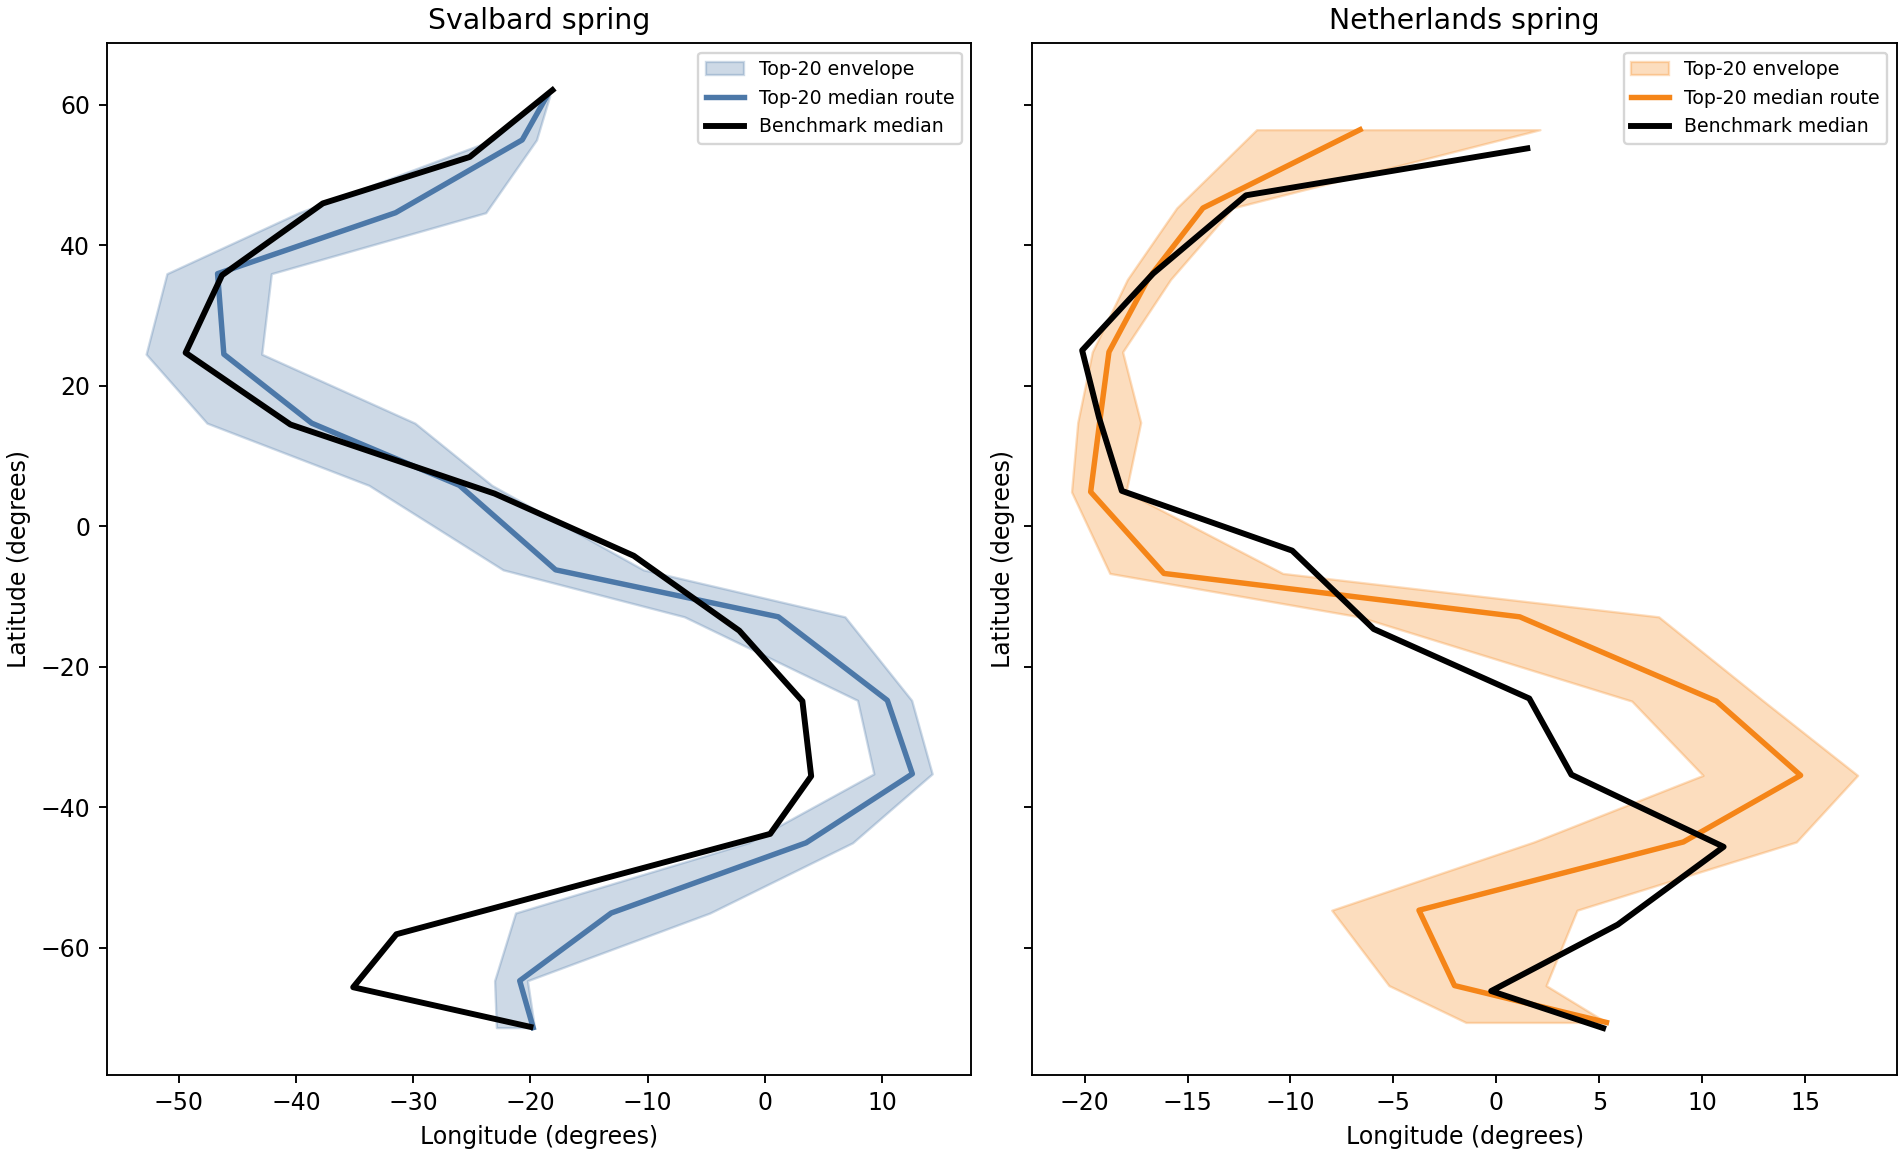
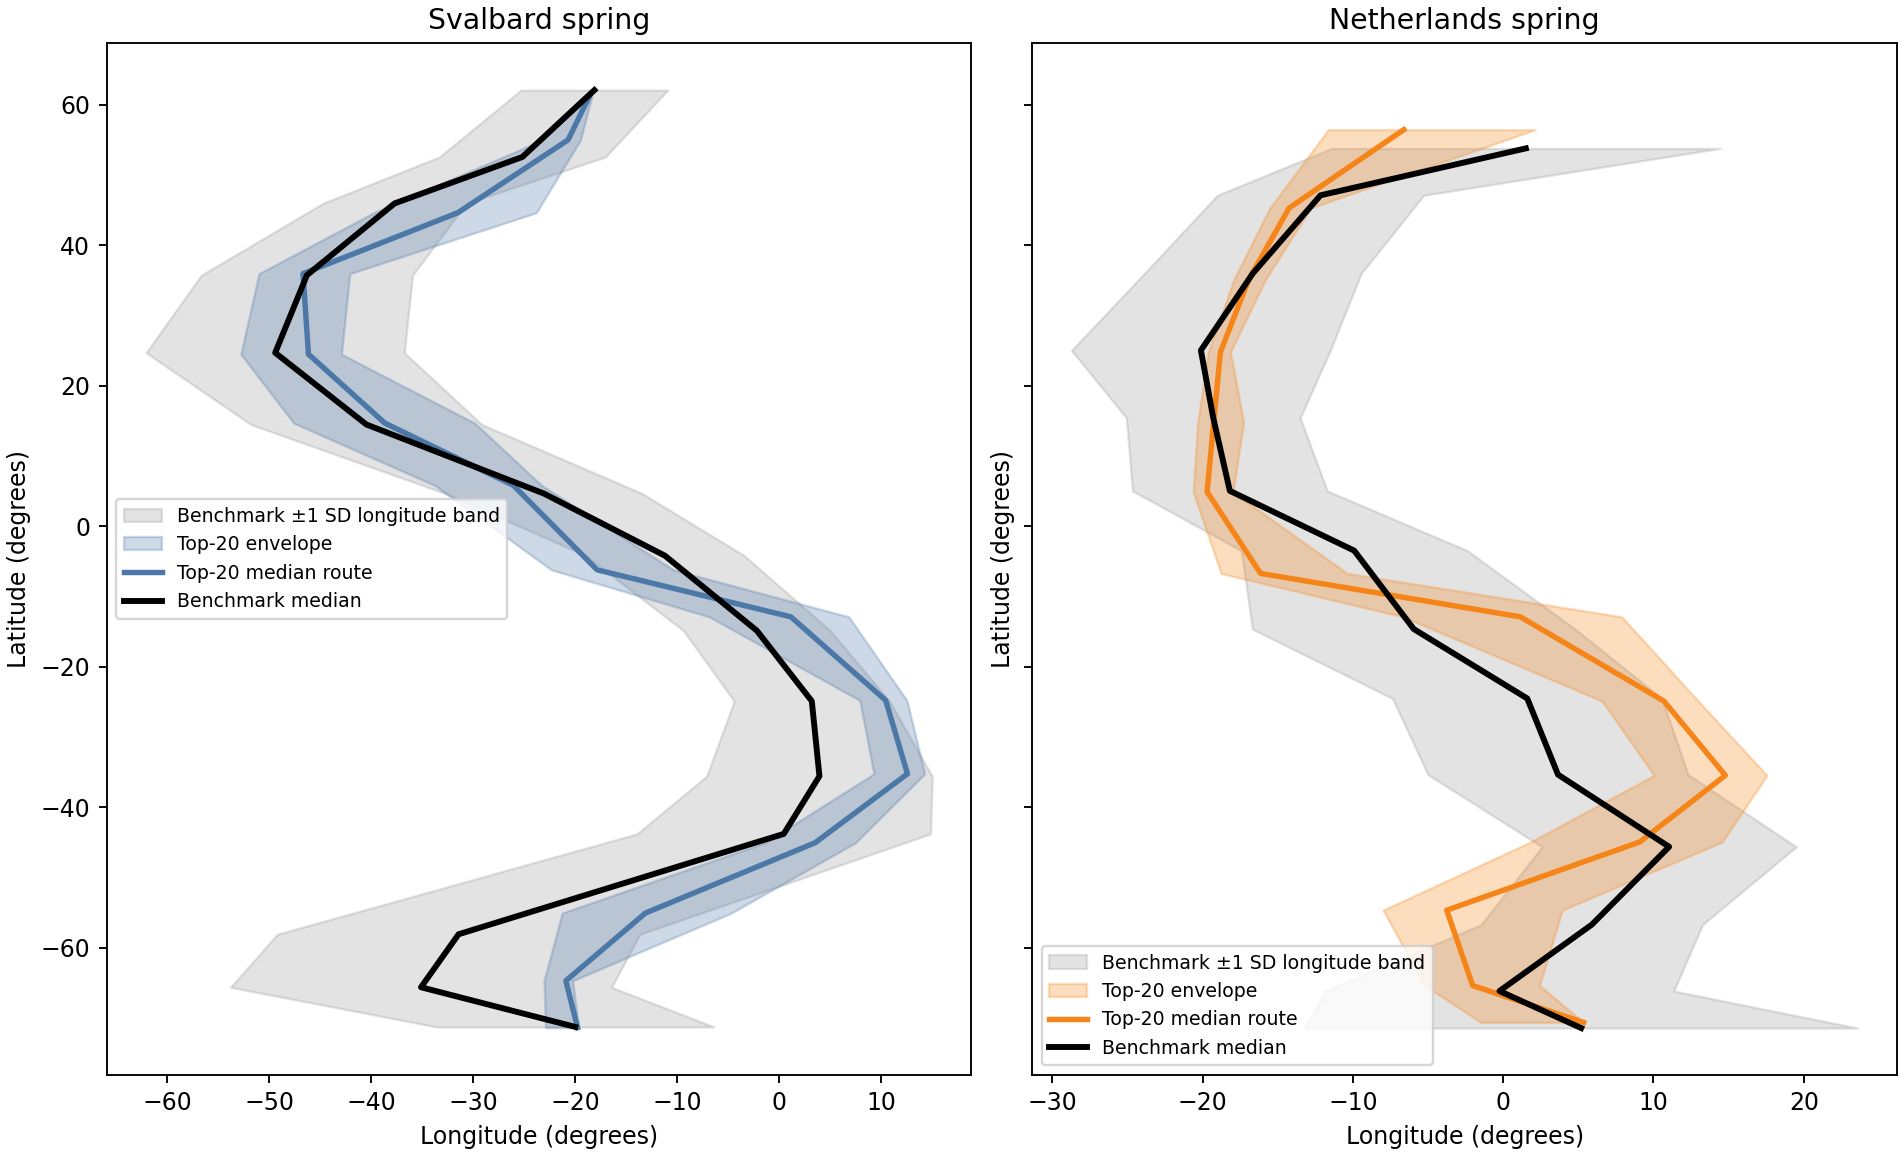
Add benchmark dispersion ribbons to route comparison

diff --git a/src/scripts/19_compare_top20_route_structure.py b/src/scripts/19_compare_top20_route_structure.py
@@ -121,6 +121,10 @@ def main() -> None:
         (axes[0], svalbard_spread, svalbard_bench, "#4c78a8", "Svalbard spring"),
         (axes[1], nl_spread, nl_bench, "#f58518", "Netherlands spring"),
     ]:
+        bench = bench.copy()
+        bench["bench_lower_sd"] = bench["lon_median10"] - bench["lon_sd_10"]
+        bench["bench_upper_sd"] = bench["lon_median10"] + bench["lon_sd_10"]
+        ax.fill_betweenx(bench["lat_median10"], bench["bench_lower_sd"], bench["bench_upper_sd"], color="grey", alpha=0.22, label="Benchmark ±1 SD longitude band")
         ax.fill_betweenx(spread["route_lat_median"], spread["lon_p10"], spread["lon_p90"], color=color, alpha=0.28, label="Top-20 envelope")
         ax.plot(spread["lon_p50"], spread["route_lat_median"], color=color, linewidth=2.3, label="Top-20 median route")
         ax.plot(bench["lon_median10"], bench["lat_median10"], color="black", linewidth=2.5, label="Benchmark median")
@@ -172,6 +176,8 @@ How do the top 20 lowest-RMSE route families differ structurally between Svalbar
 This step moves from coefficient comparison to route-family geometry. That matters because two populations can differ in top-ranked coefficients either because they genuinely prefer different movement regimes, or because their benchmark route geometries place different structural demands on the model.
 
 The route-overlay figure shows whether the top 20 good solutions form a tight corridor or a broad family in each population. The spread-by-latitude figure then makes that explicit by showing where route uncertainty or flexibility is largest. The benchmark-envelope figure helps assess whether the benchmark line sits near the center of the good-solution family or closer to one side of the envelope.
+
+To make that comparison more informative, the benchmark panel now also includes a **benchmark longitude dispersion band** built from the available `lon_sd_10` column in the benchmark summaries. This is a descriptive ±1 SD longitude ribbon around the benchmark median line for each 10° latitude band. It should not be interpreted as a confidence interval or percentile envelope, but it is still useful for showing whether the model top-20 envelope is narrower than, wider than, or offset from the benchmark's within-band dispersion.
 
 If one population has a much wider top-20 envelope, that suggests the benchmark metric tolerates a broader family of good solutions there. If the envelope is tight, the benchmark is selecting a more specific route geometry. That distinction helps explain why different coefficient structures can survive among the top RMSE solutions.
 

diff --git a/results/reports/19_compare-top20-route-structure-svalbard-netherlands-spring.md b/results/reports/19_compare-top20-route-structure-svalbard-netherlands-spring.md
@@ -35,6 +35,8 @@ This step moves from coefficient comparison to route-family geometry. That matte
 
 The route-overlay figure shows whether the top 20 good solutions form a tight corridor or a broad family in each population. The spread-by-latitude figure then makes that explicit by showing where route uncertainty or flexibility is largest. The benchmark-envelope figure helps assess whether the benchmark line sits near the center of the good-solution family or closer to one side of the envelope.
 
+To make that comparison more informative, the benchmark panel now also includes a **benchmark longitude dispersion band** built from the available `lon_sd_10` column in the benchmark summaries. This is a descriptive ±1 SD longitude ribbon around the benchmark median line for each 10° latitude band. It should not be interpreted as a confidence interval or percentile envelope, but it is still useful for showing whether the model top-20 envelope is narrower than, wider than, or offset from the benchmark's within-band dispersion.
+
 If one population has a much wider top-20 envelope, that suggests the benchmark metric tolerates a broader family of good solutions there. If the envelope is tight, the benchmark is selecting a more specific route geometry. That distinction helps explain why different coefficient structures can survive among the top RMSE solutions.
 
 ## Efficiency note
